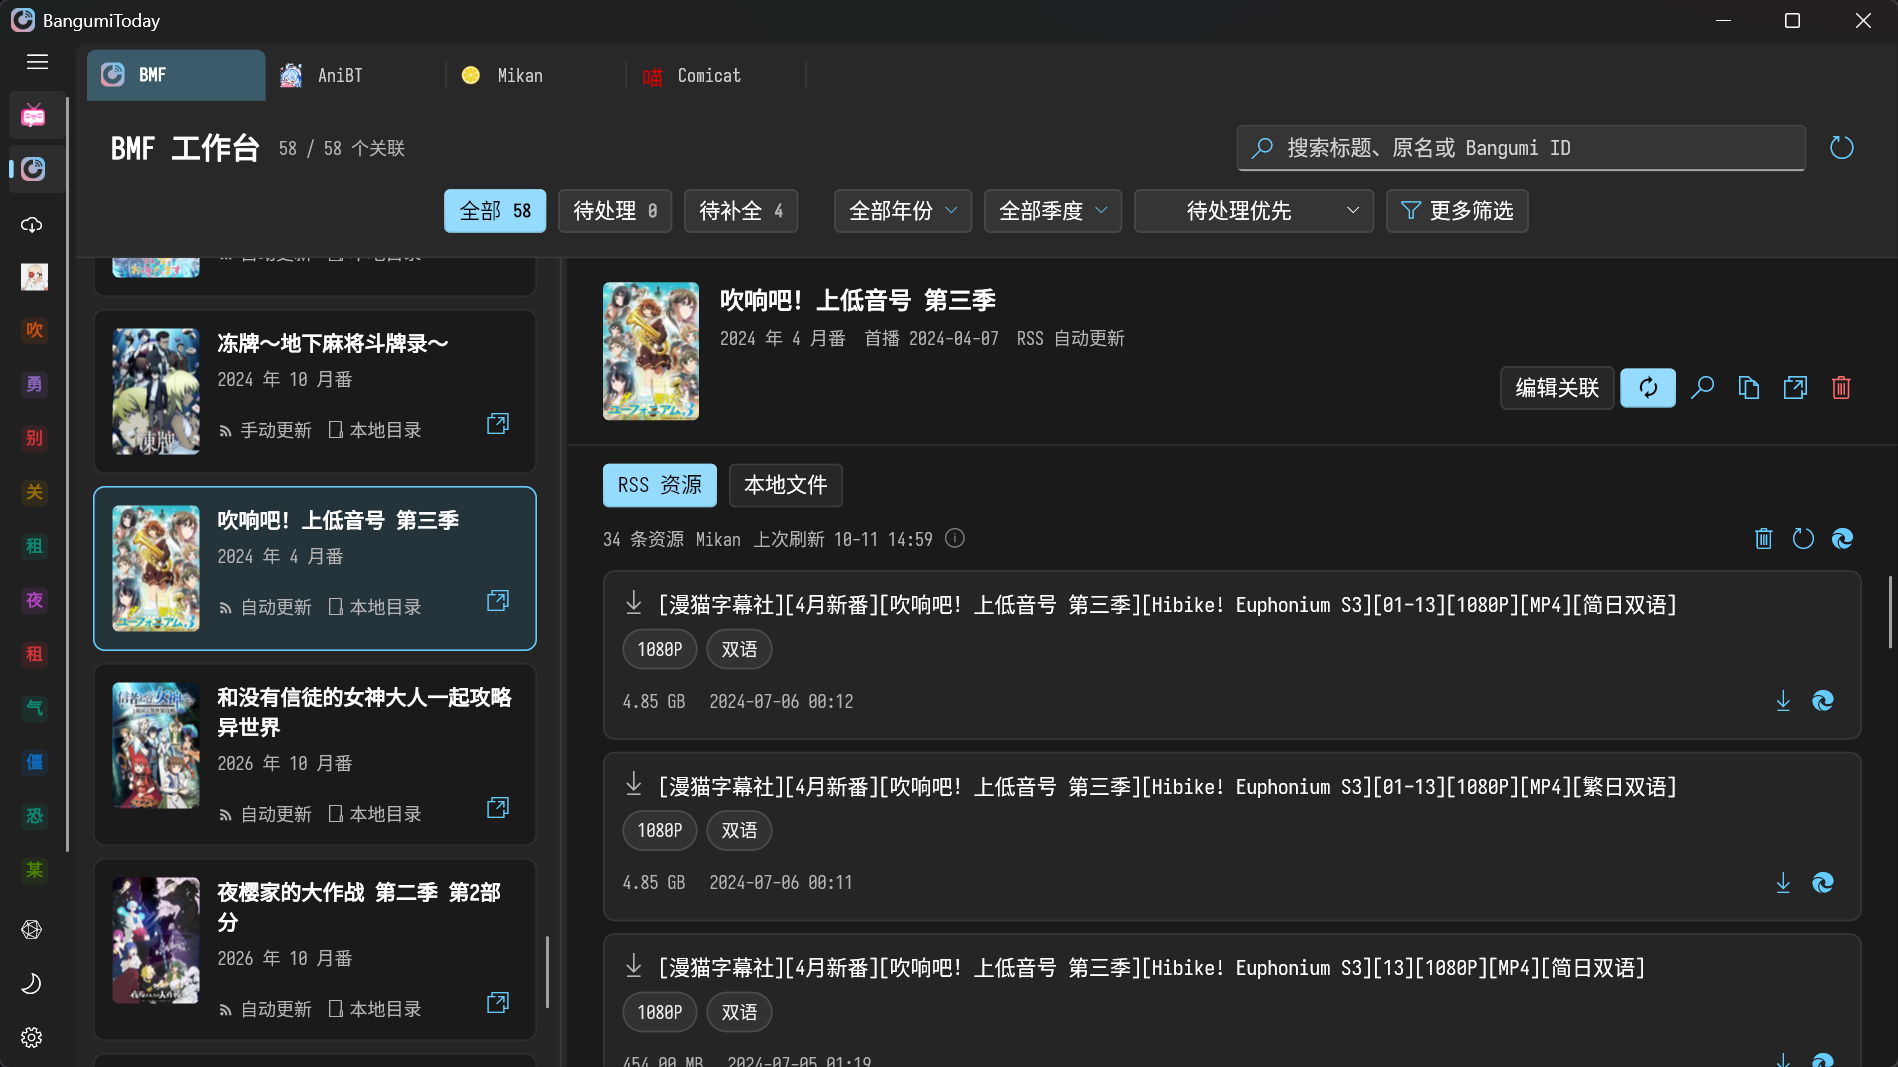
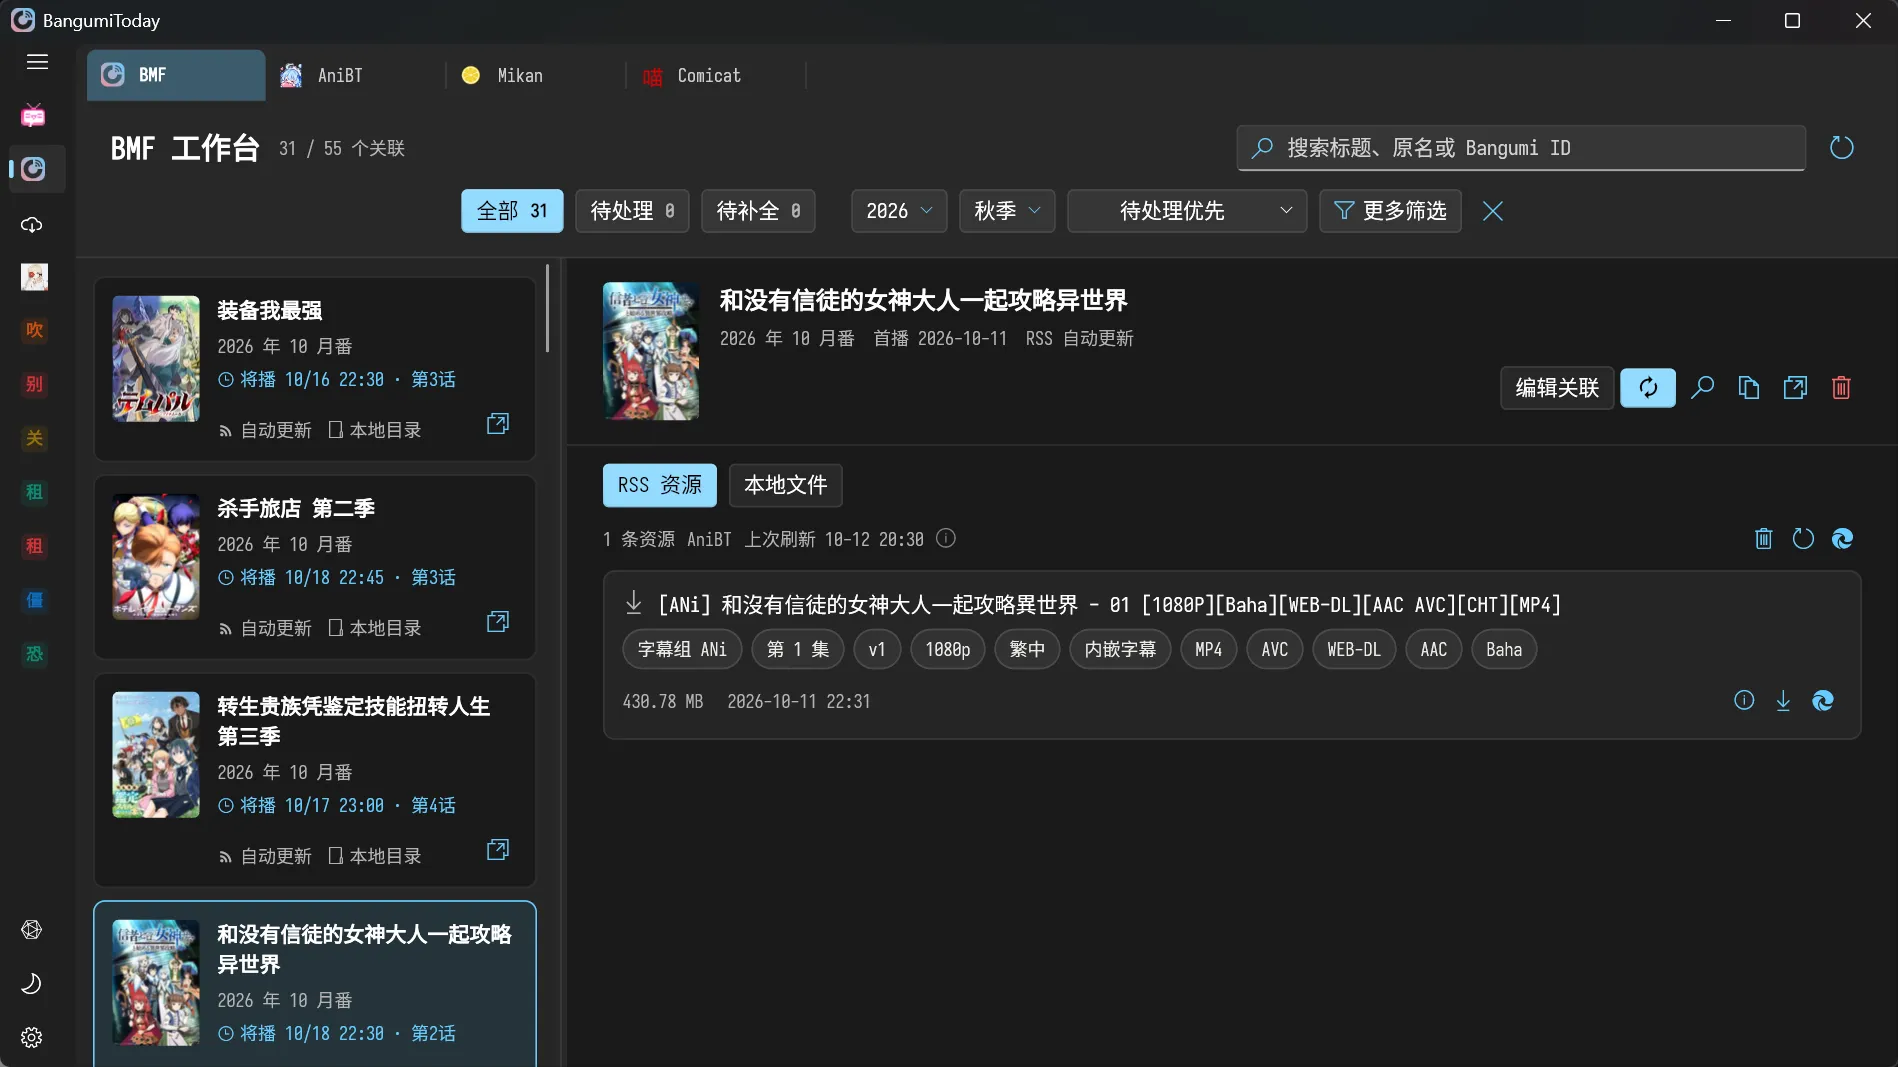
🚀 v1.0.1

diff --git a/CHANGELOG.md b/CHANGELOG.md
@@ -2,12 +2,24 @@
 Author: 目棃
 Description: 更新日志
 Date: 2024-04-17
-Update: 2026-10-11
+Update: 2026-10-12
 ---
 
 > 本文档 [`Frontmatter`](https://github.com/BTMuli/MuCli#Frontmatter) 由 [MuCli](https://github.com/BTMuli/Mucli) 自动生成于 `2024-04-17 17:46:15`
 >
-> 更新于 `2026-10-11 17:06:58`
+> 更新于 `2026-10-12 21:03:14`
+
+## [v1.0.1](https://github.com/BTMuli/BangumiToday/releases/tag/v1.0.1) (2026-10-12)
+
+- ✨ BMF 新增“最近一话放送”，“即将一话放送”排序，显示放送信息
+- ✨ 条目详情新增“继续播放”入口
+- ⚡ 在未加载文件两小时后释放 mpv
+- ⚡ 优化应用退出处理
+- 🚸 完善请求去重账号校验
+- 🐛 调整倍速记忆逻辑，从旧版本切换到1倍速存储改为即时存储
+- 🐛 完善剧集匹配，修复诸如“S02E13.1080p”识别异常
+- 🐛 修复收藏同步与本地状态一致性，修复标记章节后误删本地收藏记录
+- 🐛 修复收藏接口用户名传参错误
 
 ## [v1.0.0](https://github.com/BTMuli/BangumiToday/releases/tag/v1.0.0) (2026-10-11)
 
